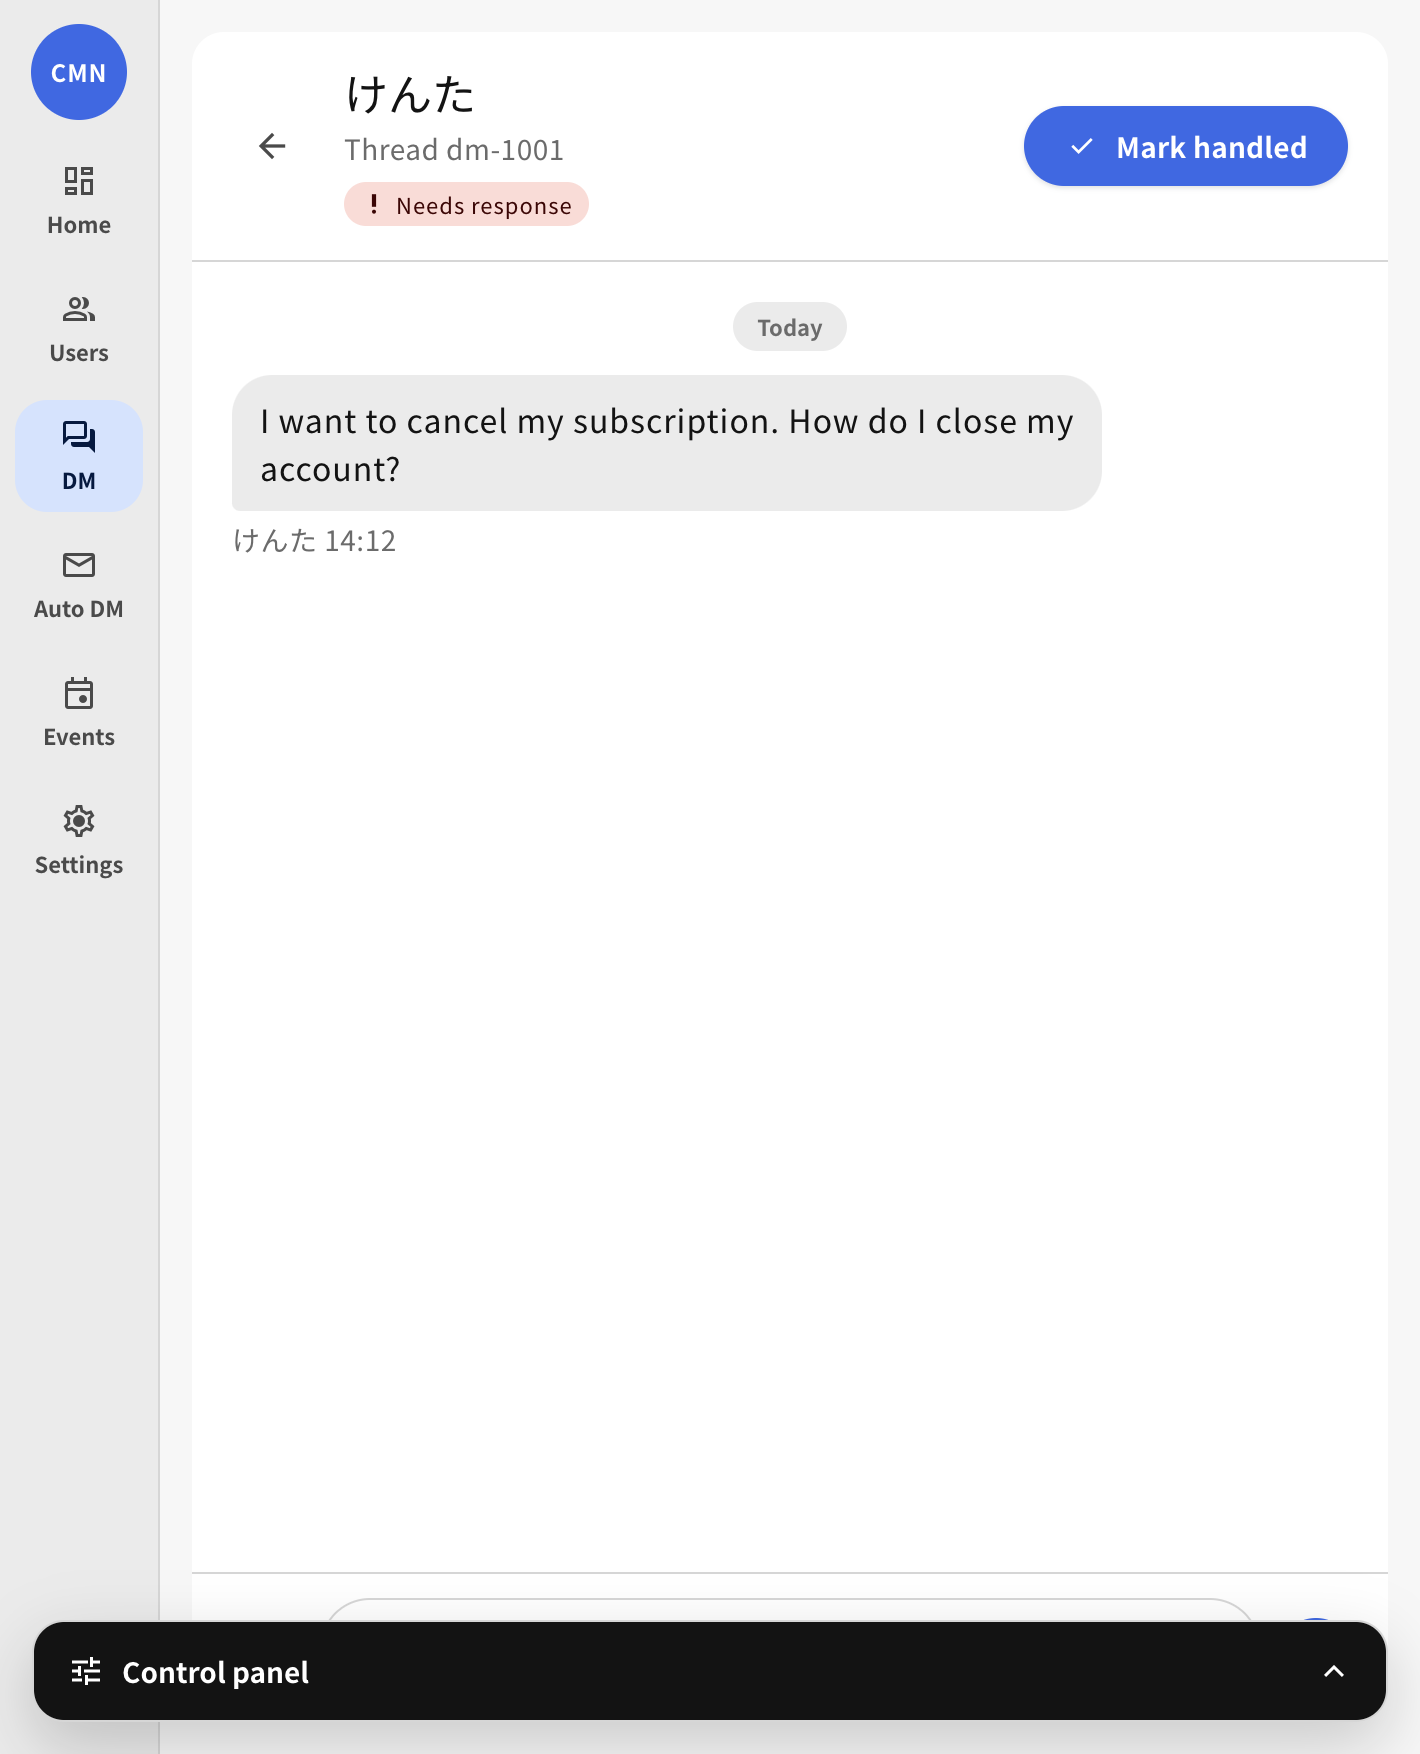
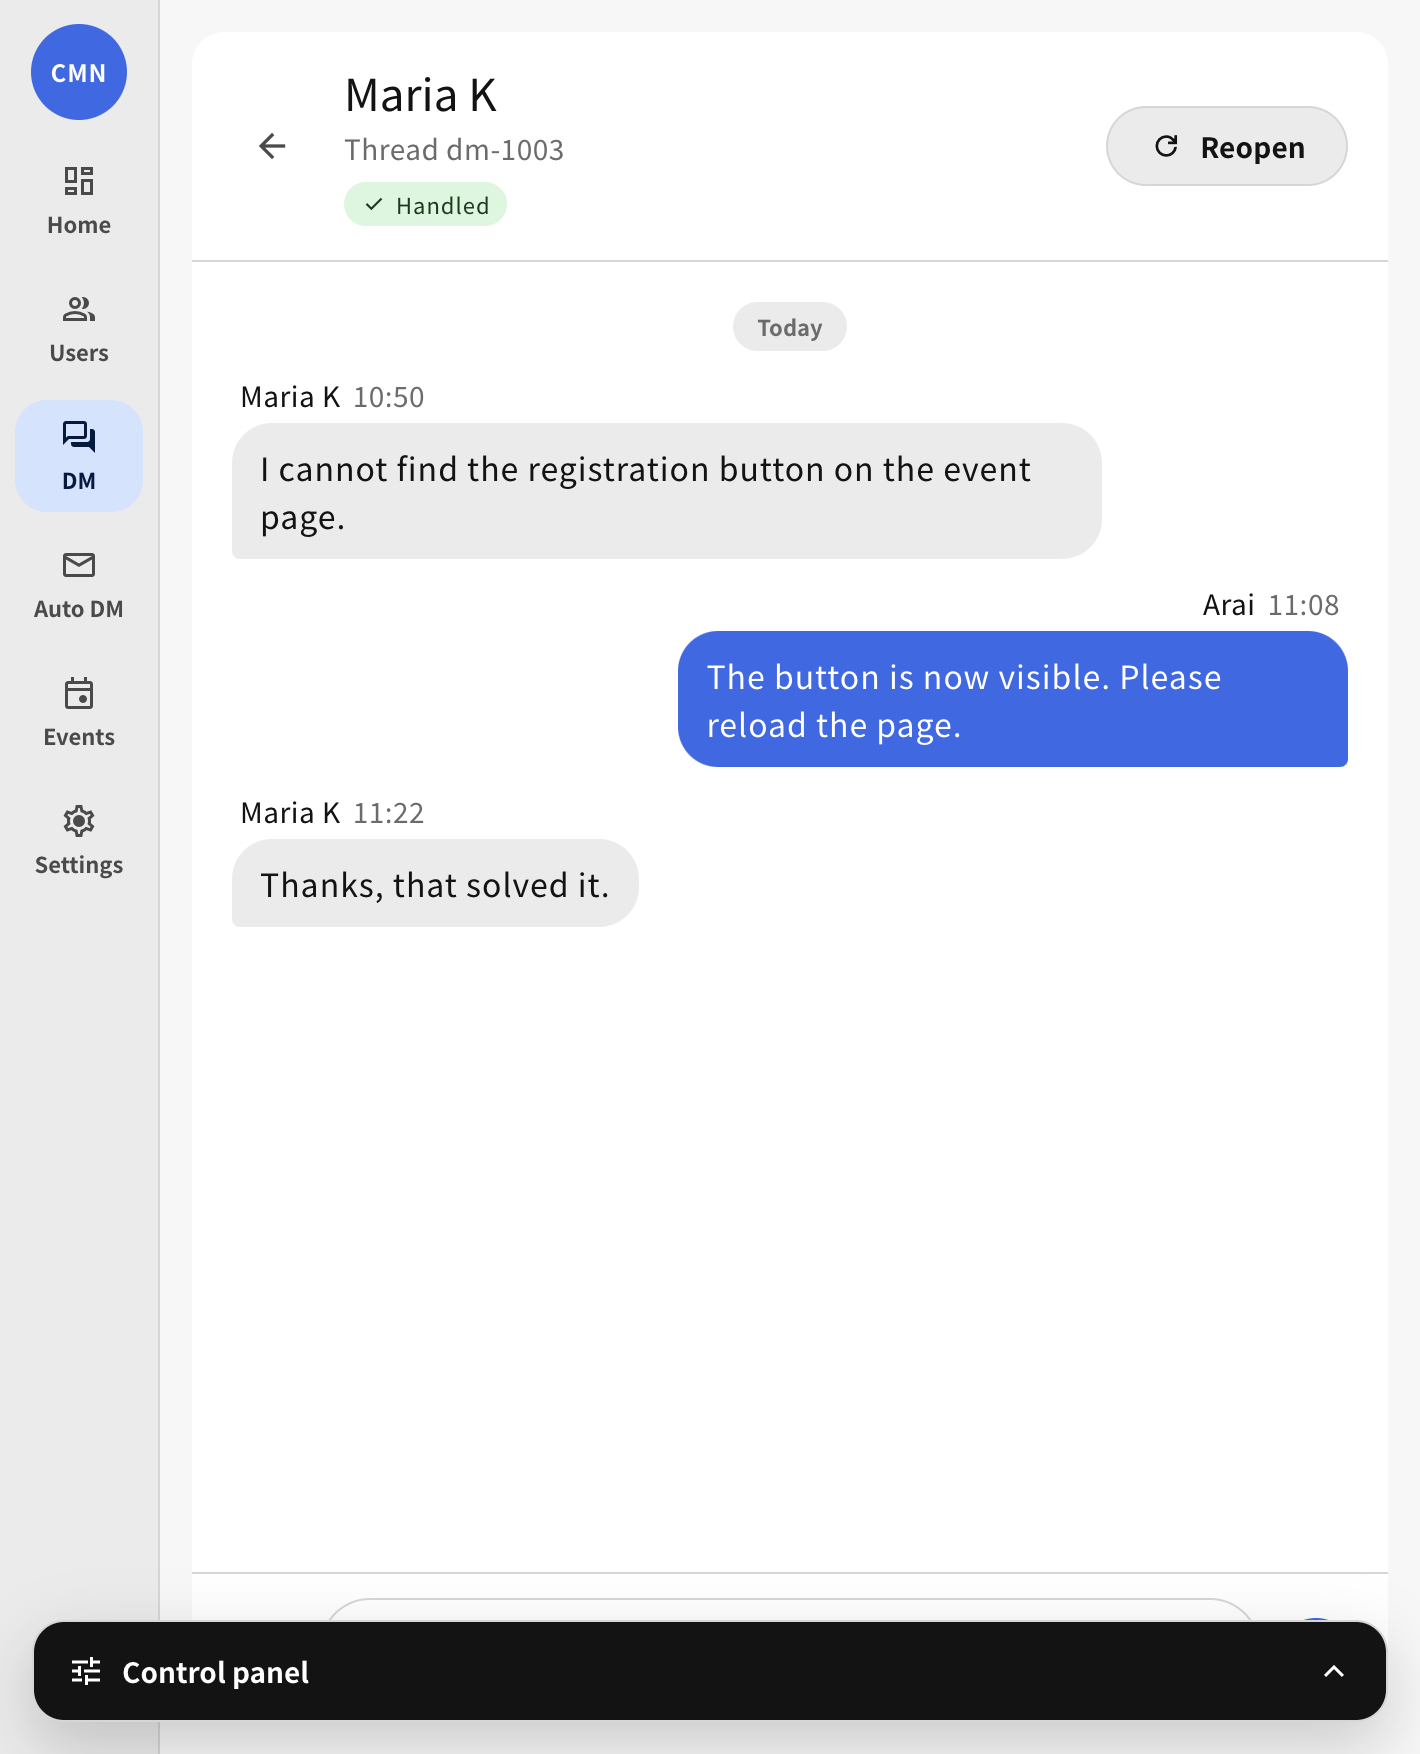
Move sender name+time above message bubble
Industry-standard placement (Slack, Intercom, Zendesk, Front): the
name+timestamp header sits above the bubble, aligned with the bubble
side, so admins scan who -> what top-to-bottom instead of reading
the bubble first and backtracking for the author.

diff --git a/index.html b/index.html
@@ -760,9 +760,20 @@
       font-size: var(--md-sys-typescale-body-medium-size);
       line-height: var(--md-sys-typescale-body-medium-line);
       letter-spacing: var(--md-sys-typescale-body-medium-tracking);
+      padding: 0 4px;
+      display: flex;
+      align-items: baseline;
+      gap: 6px;
     }
 
-    .message-row.admin .message-meta { text-align: right; }
+    .message-row.admin .message-meta {
+      justify-content: flex-end;
+    }
+
+    .message-author {
+      font-weight: 500;
+      color: var(--md-sys-color-on-surface);
+    }
 
     .composer {
       padding: var(--space-3) var(--space-4);
@@ -1725,8 +1736,8 @@
       return `
         <div class="message-row ${fromClass}">
           <div class="message-bubble-group">
+            <div class="message-meta"><span class="message-author">${escapeHtml(message.author)}</span><span class="message-time">${escapeHtml(message.time)}</span></div>
             ${bubble}
-            <div class="message-meta">${escapeHtml(message.author)} ${escapeHtml(message.time)}</div>
           </div>
         </div>
       `;
